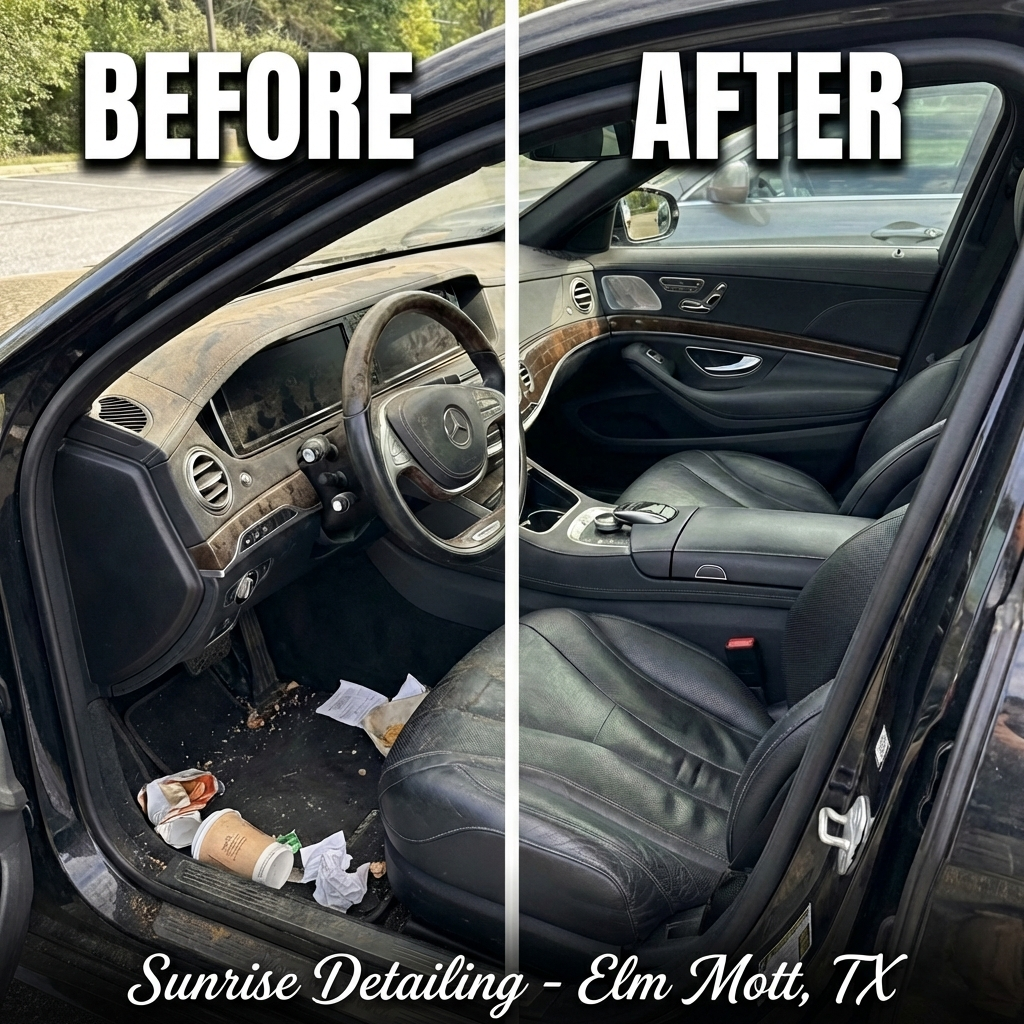
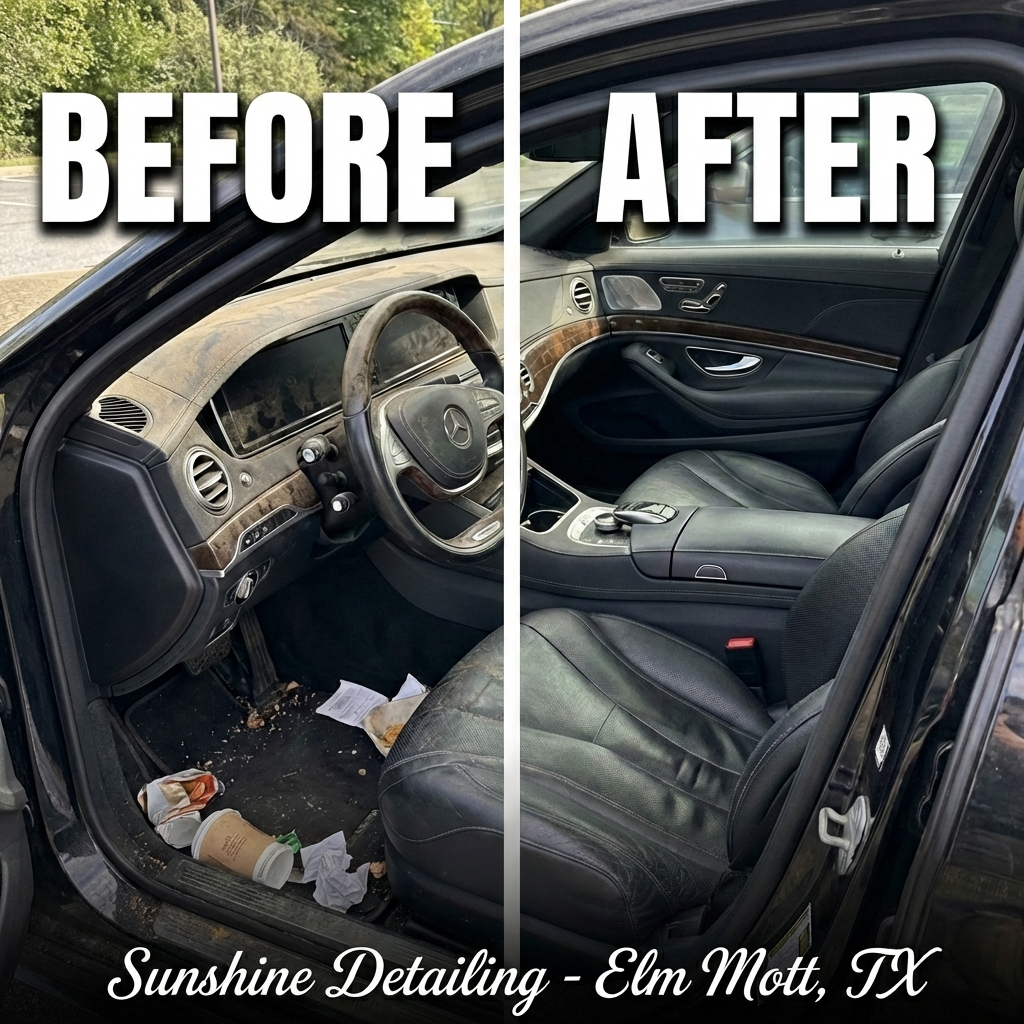
Rename to Sunshine Detailing + update OG image

diff --git a/index.html b/index.html
@@ -7,15 +7,15 @@
   <meta name="viewport" content="width=device-width, initial-scale=1.0" />
 
   <!-- Primary Meta Tags -->
-  <title>Sunrise Detailing | Elm Mott, TX - Professional Auto Detailing</title>
-  <meta name="title" content="Sunrise Detailing | Elm Mott, TX - Professional Auto Detailing" />
+  <title>Sunshine Detailing | Elm Mott, TX - Professional Auto Detailing</title>
+  <meta name="title" content="Sunshine Detailing | Elm Mott, TX - Professional Auto Detailing" />
   <meta name="description"
     content="Premium auto detailing services in Elm Mott, Texas. Interior deep cleaning, paint correction, and ceramic coating. See the transformation!" />
 
   <!-- Open Graph / Facebook -->
   <meta property="og:type" content="website" />
   <meta property="og:url" content="https://sunrisedetailing.com/" />
-  <meta property="og:title" content="Sunrise Detailing | See the Transformation" />
+  <meta property="og:title" content="Sunshine Detailing | See the Transformation" />
   <meta property="og:description"
     content="Premium auto detailing in Elm Mott, TX. We bring showroom brilliance to your driveway. Call (254) 900-4049" />
   <meta property="og:image" content="https://sunrisedetailing.com/og-image.png" />
@@ -25,13 +25,13 @@
   <!-- Twitter -->
   <meta property="twitter:card" content="summary_large_image" />
   <meta property="twitter:url" content="https://sunrisedetailing.com/" />
-  <meta property="twitter:title" content="Sunrise Detailing | See the Transformation" />
+  <meta property="twitter:title" content="Sunshine Detailing | See the Transformation" />
   <meta property="twitter:description"
     content="Premium auto detailing in Elm Mott, TX. We bring showroom brilliance to your driveway. Call (254) 900-4049" />
   <meta property="twitter:image" content="https://sunrisedetailing.com/og-image.png" />
 
   <!-- iMessage / SMS Preview -->
-  <meta name="apple-mobile-web-app-title" content="Sunrise Detailing" />
+  <meta name="apple-mobile-web-app-title" content="Sunshine Detailing" />
 
   <!-- Theme Color for browser UI -->
   <meta name="theme-color" content="#0f4c5c" />

diff --git a/src/App.jsx b/src/App.jsx
@@ -36,11 +36,11 @@ const Navbar = () => {
   return (
     <nav className="navbar">
       <div className="container nav-content">
-        <a href="#" className="logo-group" aria-label="Sunrise Detailing Home">
+        <a href="#" className="logo-group" aria-label="Sunshine Detailing Home">
           <div className="logo-icon">
             <Sparkles size={24} strokeWidth={2.5} aria-hidden="true" />
           </div>
-          <span>Sunrise<span style={{ color: 'var(--color-accent)' }}>.</span></span>
+          <span>Sunshine<span style={{ color: 'var(--color-accent)' }}>.</span></span>
         </a>
 
         <div className="nav-links">
@@ -447,7 +447,7 @@ const AboutSection = () => {
           <div className="about-text">
             <h2>Born in Texas. Raised on Vinyl & Gasoline.</h2>
             <p>
-              Sunrise Detailing isn't just a business; it's a tribute to the golden age of motoring.
+              Sunshine Detailing isn't just a business; it's a tribute to the golden age of motoring.
               We believe that every car has a story, and our job is to make sure it shines.
               Using traditional techniques combined with modern technology, we treat your vehicle
               with the respect it deserves.
@@ -518,7 +518,7 @@ const Footer = () => {
         <div className="footer-brand">
           <div className="logo-group">
             <Sparkles size={20} color="var(--color-accent)" aria-hidden="true" />
-            <span style={{ color: 'white' }}>Sunrise.</span>
+            <span style={{ color: 'white' }}>Sunshine.</span>
           </div>
           <p>
             Premium auto detailing services in the heart of Texas.
@@ -542,7 +542,7 @@ const Footer = () => {
         </div>
       </div>
       <div className="container footer-bottom">
-        <p>© {currentYear} Sunrise Detailing. All rights reserved.</p>
+        <p>© {currentYear} Sunshine Detailing. All rights reserved.</p>
       </div>
     </footer>
   );
